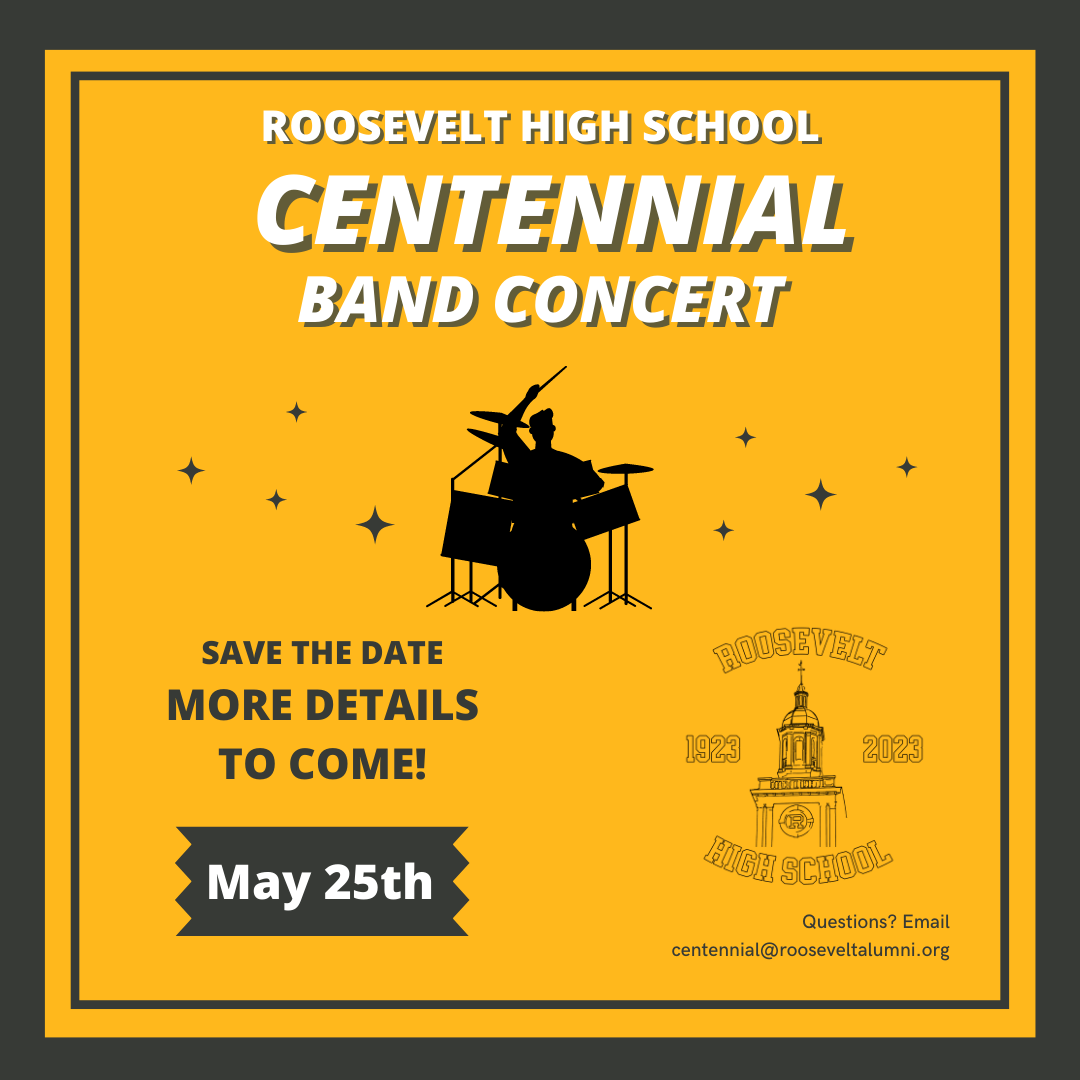
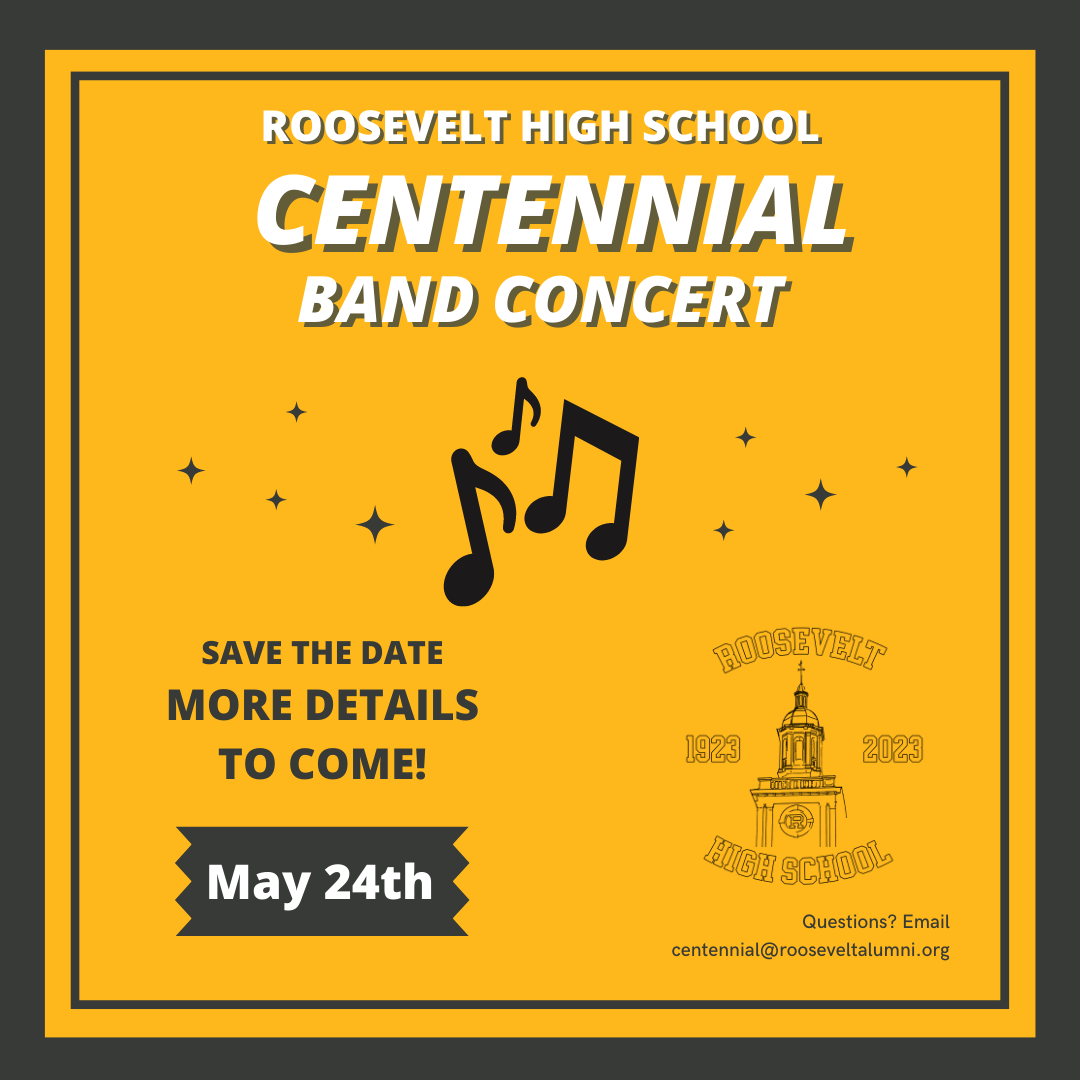
new band night date

Changed region(s): [[0.3972, 0.3361, 0.6111, 0.5806], [0.3056, 0.7944, 0.3667, 0.825]]

diff --git a/events/index.html b/events/index.html
@@ -49,7 +49,7 @@
 	      	</div>
 	      	<div class="blockD col-lg-4 col-md-3 col-sm-4 col-10 justify-content-center text-center">
 		        <h3 class="dtitle">Centennial Band Concert</h3>
-		        <h5 class="blockDdetail">Thursday, May 25th, 2023</h5>
+		        <h5 class="blockDdetail">Wednesday, May 24th, 2023</h5>
 		        <h5 class="blockDdetail">Roosevelt High School Auditorium</h5>
 		        <hr width="75%" class="goldbar">
 		        <p class="eventinfo">All alumni, community members, staff, and students are invited to enjoy the talented variety
